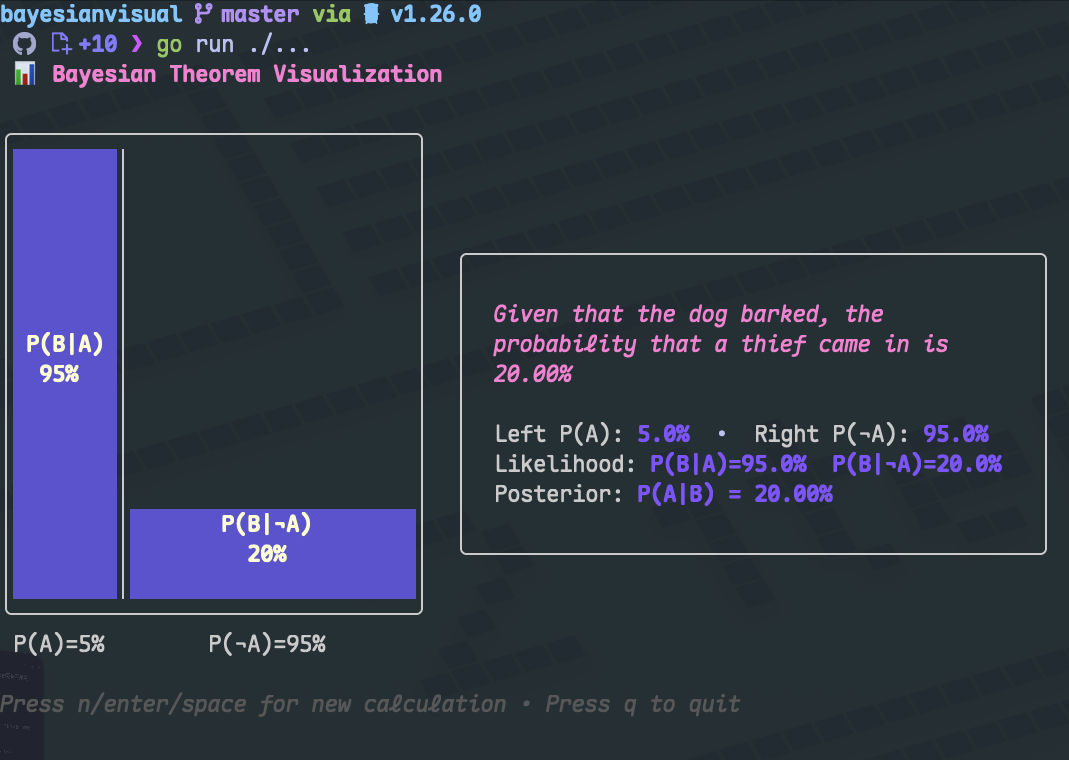
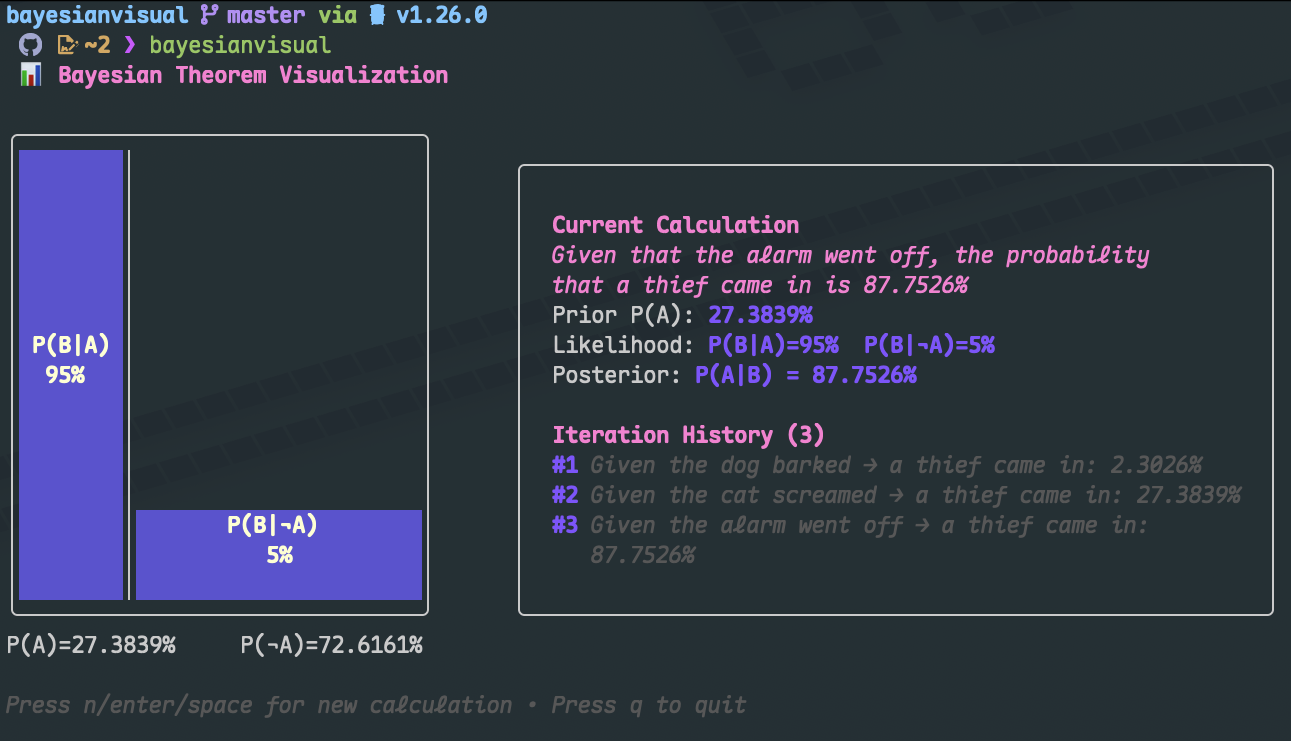
chore: update demo

diff --git a/internal/model/update.go b/internal/model/update.go
@@ -150,9 +150,12 @@ func (m Model) updateInput(msg tea.KeyPressMsg) (tea.Model, tea.Cmd) {
 					return m, nil
 				}
 
-				// 非迭代模式，返回查看状态
-				m.State = StateViewing
-				m.TextInput.Blur()
+				// 非迭代模式（New Calculation），继续输入先验概率
+				m.State = StateInputPriorA
+				m.TextInput.SetValue("")
+				m.TextInput.CharLimit = 10
+				m.TextInput.SetWidth(20)
+				m.TextInput.Placeholder = "0.0 - 1.0"
 				return m, nil
 			}
 		}

diff --git a/README.md b/README.md
@@ -30,6 +30,13 @@ cd bayesianvisual
 go build ./cmd/bayesianvisual
 ```
 
+or
+
+```bash
+git clone https://github.com/sshelll/bayesianvisual.git
+go install ./cmd/bayesianvisual
+```
+
 ## Usage
 
 Run the application:
@@ -67,6 +74,7 @@ P(A|B) = P(B|A) × P(A) / P(B)
 ```
 
 Where:
+
 - **P(A)**: Prior probability (left side)
 - **P(B|A)**: Likelihood given A (blue area on left)
 - **P(B|¬A)**: Likelihood given not A (blue area on right)
@@ -75,4 +83,3 @@ Where:
 ## License
 
 MIT
-
